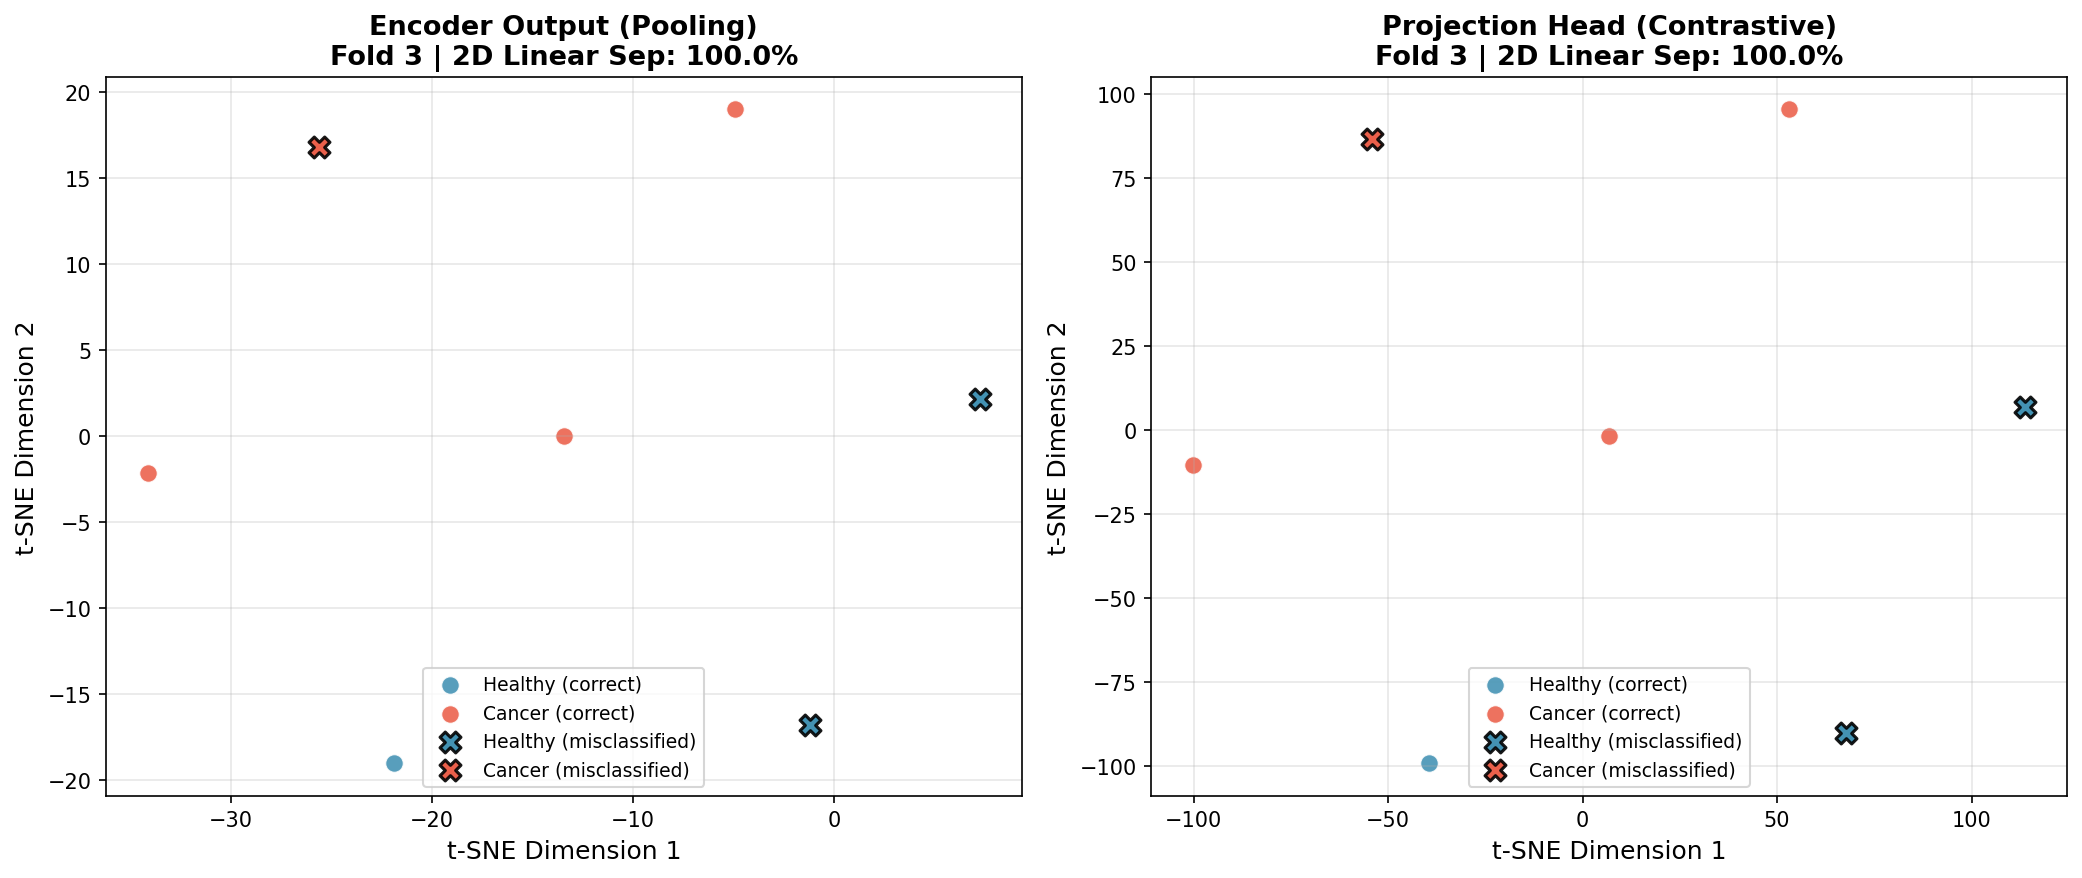
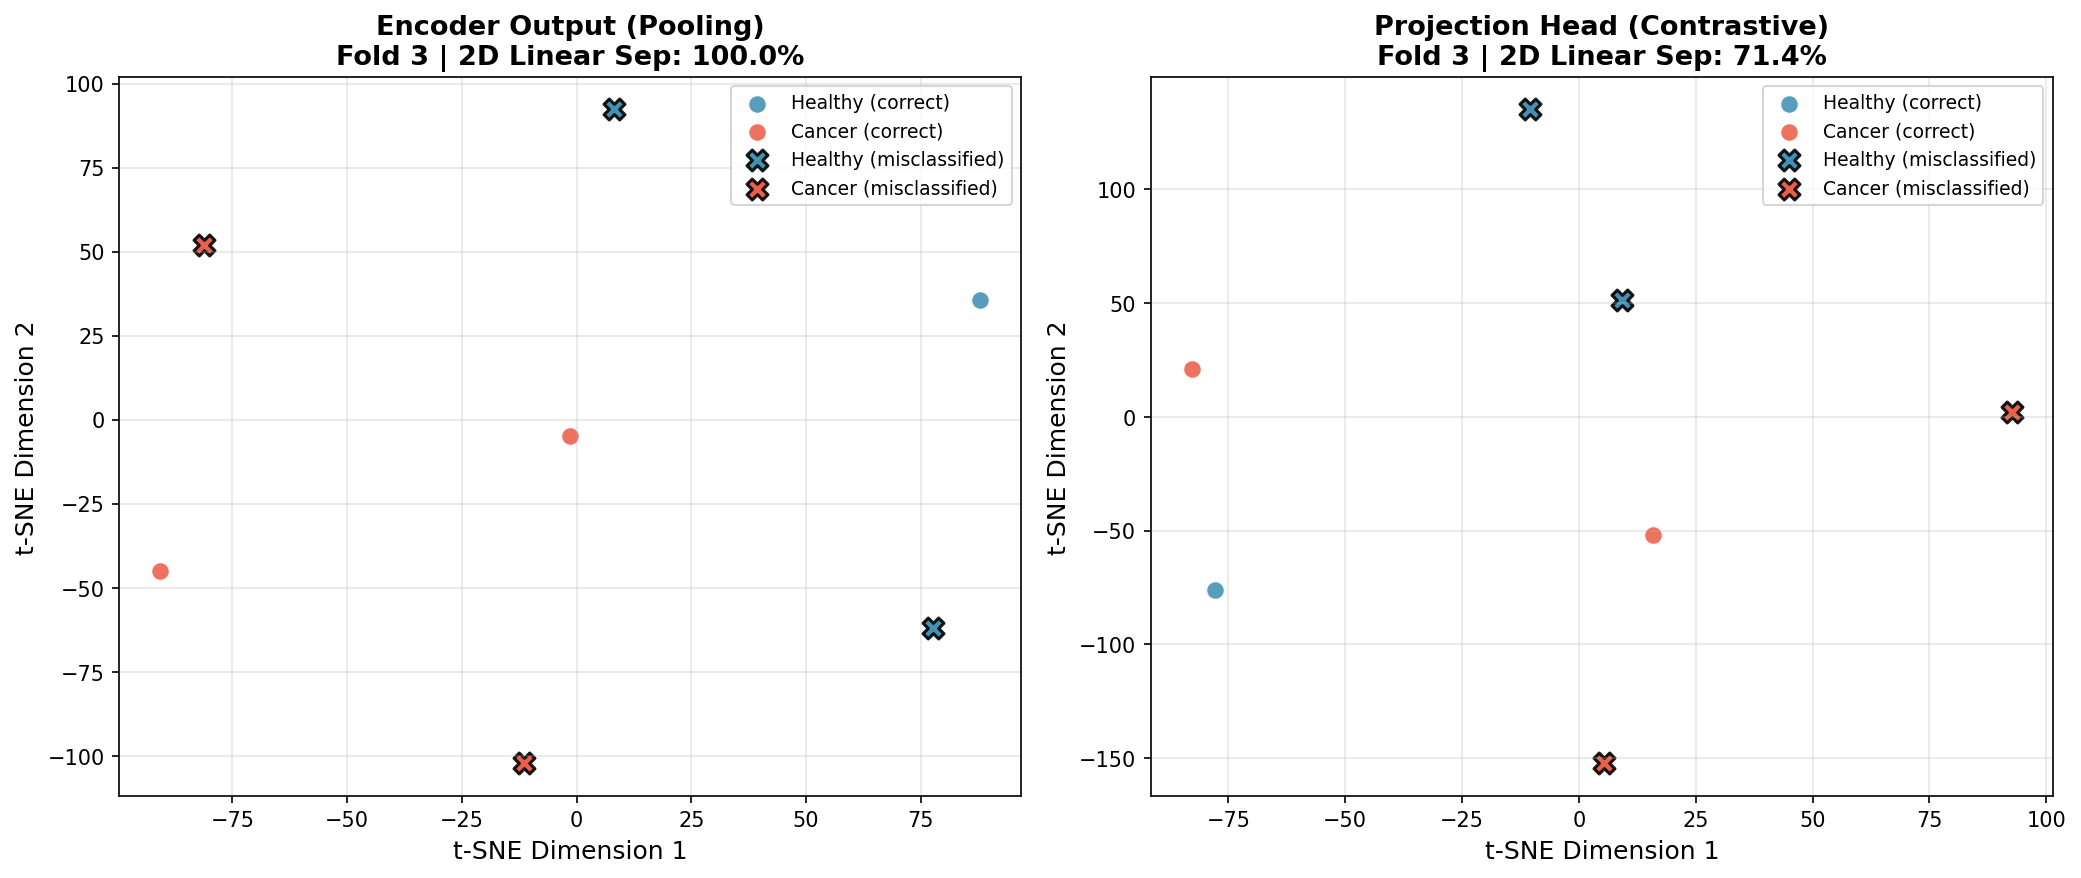
feat: conter loss function

diff --git a/transformer/training/center_loss.py b/transformer/training/center_loss.py
@@ -1,0 +1,105 @@
+import torch
+import torch.nn as nn
+
+
+class CenterLoss(nn.Module):
+    """
+    Center Loss for improving intra-class compactness.
+    
+    Learns a center (centroid) for each class and minimizes the L2 distance
+    between embeddings and their corresponding class centers.
+    
+    This directly attacks intra-class variance, which is the key to improving
+    Silhouette Score. Unlike SupConLoss, it doesn't require large batches or pairs.
+    
+    Reference: Wen et al., "A Discriminative Feature Learning Approach for Deep Face Recognition"
+    
+    L_center = (1/2) * sum_i ||f_i - c_{y_i}||^2
+    
+    Where:
+        - f_i is the feature embedding of sample i
+        - c_{y_i} is the learned center for class y_i
+    """
+    
+    def __init__(self, num_classes: int, feat_dim: int, device: torch.device = None):
+        """
+        Args:
+            num_classes: Number of classes (2 for binary classification)
+            feat_dim: Dimension of the feature embeddings
+            device: Device to place the centers on
+        """
+        super().__init__()
+        self.num_classes = num_classes
+        self.feat_dim = feat_dim
+        
+        # Learnable centers (one per class)
+        # Initialize with zeros - will be updated during training
+        self.centers = nn.Parameter(torch.zeros(num_classes, feat_dim))
+        nn.init.xavier_uniform_(self.centers)
+        
+        if device is not None:
+            self.centers = nn.Parameter(self.centers.to(device))
+    
+    def forward(self, features: torch.Tensor, labels: torch.Tensor, center_separation_weight: float = 0.0) -> torch.Tensor:
+        """
+        Compute the center loss.
+        
+        Args:
+            features: L2-normalized embeddings (batch_size, feat_dim)
+            labels: Ground truth labels (batch_size,) with values in [0, num_classes-1]
+            center_separation_weight: Weight for the center separation penalty (default 0.0)
+            
+        Returns:
+            Scalar loss value
+        """
+        batch_size = features.size(0)
+        
+        if batch_size == 0:
+            return torch.tensor(0.0, device=features.device, requires_grad=True)
+        
+        # Get centers for each sample's class
+        # labels: (batch_size,) -> centers_batch: (batch_size, feat_dim)
+        labels_long = labels.long()
+        centers_batch = self.centers[labels_long]
+        
+        # Compute squared L2 distance to centers
+        # ||f_i - c_{y_i}||^2
+        diff = features - centers_batch
+        dist_sq = (diff ** 2).sum(dim=1)
+        
+        # Mean over batch
+        loss = dist_sq.mean() / 2.0
+        
+        # Center separation loss: maximize distance between class centers
+        center_separation_loss = 0.0
+        if center_separation_weight > 0.0 and self.num_classes > 1:
+            # Compute pairwise distances between all class centers
+            centers = self.centers
+            # (num_classes, num_classes)
+            dist_matrix = torch.cdist(centers, centers, p=2)
+            # Mask diagonal (distance to self = 0)
+            mask = ~torch.eye(self.num_classes, dtype=torch.bool, device=centers.device)
+            # Minimize negative mean distance (maximize separation)
+            center_separation_loss = -dist_matrix[mask].mean()
+            loss = loss + center_separation_weight * center_separation_loss
+        return loss
+    
+    def update_centers(self, features: torch.Tensor, labels: torch.Tensor, alpha: float = 0.5):
+        """
+        Update centers using exponential moving average (optional alternative to gradient-based update).
+        
+        This can be used instead of or in addition to gradient updates for more stable centers.
+        
+        Args:
+            features: Feature embeddings (batch_size, feat_dim)
+            labels: Ground truth labels (batch_size,)
+            alpha: Learning rate for center update (0.0 = no update, 1.0 = full update)
+        """
+        with torch.no_grad():
+            for c in range(self.num_classes):
+                mask = (labels.long() == c)
+                if mask.sum() > 0:
+                    class_features = features[mask]
+                    class_center = class_features.mean(dim=0)
+                    # EMA update
+                    self.centers.data[c] = (1 - alpha) * self.centers.data[c] + alpha * class_center

diff --git a/transformer/training/train_engine.py b/transformer/training/train_engine.py
@@ -3,7 +3,7 @@ import torch
 import torch.nn as nn
 from copy import deepcopy
 
-from transformer.training.sup_con_loss import SupConLoss
+from transformer.training.center_loss import CenterLoss
 from transformer.training.class_balanced_sampler import ClassBalancedSampler
 
 from transformer.training.train_utils import TrainUtils
@@ -85,12 +85,25 @@ class TrainEngine(TrainUtils):
         
         # Loss functions
         bce_criterion = nn.BCEWithLogitsLoss(pos_weight=pos_weight)
-        supcon_criterion = SupConLoss(temperature=self.supcon_temperature)
+       
+        # Center Loss - learns class centers to reduce intra-class variance
+        # feat_dim is d_model // 2 (projection head output dimension)
+        feat_dim = self.d_model // 2
+        center_criterion = CenterLoss(num_classes=2, feat_dim=feat_dim, device=self.device)
+        # Peso da penalização de afastamento dos centros
+        center_separation_weight = getattr(self, 'center_separation_weight', 0.5)  # valor padrão 0.1
         
+        # Optimizer for model parameters
         optimizer = torch.optim.AdamW(
             self.model.parameters(), 
             lr=self.lr, 
             weight_decay=self.weight_decay
+        )
+        
+        # Separate optimizer for center parameters (higher learning rate)
+        center_optimizer = torch.optim.SGD(
+            center_criterion.parameters(),
+            lr=self.lr * 10  # Centers need higher LR to keep up with features
         )
         
         # Cosine annealing scheduler (works better for small datasets)
@@ -117,6 +130,7 @@ class TrainEngine(TrainUtils):
             
             for X_batch, y_batch in train_loader:
                 optimizer.zero_grad()
+                center_optimizer.zero_grad()
                 
                 # Forward pass with embeddings for contrastive loss
                 logits, encoder_repr, projected = self.model(
@@ -126,20 +140,21 @@ class TrainEngine(TrainUtils):
                 # BCE loss
                 bce_loss = bce_criterion(logits, y_batch)
                 
-                # SupCon loss (need flat labels)
+                # Center loss (need flat labels)
                 labels_flat = y_batch.squeeze(-1)
-                supcon_loss = supcon_criterion(projected, labels_flat)
+                center_loss = center_criterion(projected, labels_flat, center_separation_weight=center_separation_weight)
                 
                 # Combined loss
-                loss = (1 - self.supcon_weight) * bce_loss + self.supcon_weight * supcon_loss
+                loss = (1 - self.supcon_weight) * bce_loss + self.supcon_weight * center_loss
                 
                 train_bce_losses.append(bce_loss.item())
-                train_supcon_losses.append(supcon_loss.item())
+                train_supcon_losses.append(center_loss.item())
                 
                 # Backward pass
                 loss.backward()
                 torch.nn.utils.clip_grad_norm_(self.model.parameters(), max_norm=1.0)
                 optimizer.step()
+                center_optimizer.step()  # Update centers
                 scheduler.step()
             
             # Validation phase

diff --git a/transformer/training/__init__.py b/transformer/training/__init__.py
@@ -2,17 +2,20 @@
 Training Components
 
 Contains training utilities for the SpectralTransformer:
-- TrainEngine: Mixin class providing training functionality with SupCon support
-- SupConLoss: Supervised Contrastive Loss implementation
+- TrainEngine: Mixin class providing training functionality with Center Loss support
+- CenterLoss: Center Loss for intra-class compactness
+- SupConLoss: Supervised Contrastive Loss implementation (legacy)
 - ClassBalancedSampler: Sampler for balanced batches in contrastive learning
 """
 
 from transformer.training.train_engine import TrainEngine
+from transformer.training.center_loss import CenterLoss
 from transformer.training.sup_con_loss import SupConLoss
 from transformer.training.class_balanced_sampler import ClassBalancedSampler
 from transformer.training.train_utils import TrainUtils
 __all__ = [
     'TrainEngine',
+    'CenterLoss',
     'SupConLoss',
     'ClassBalancedSampler',
     'TrainUtils'

diff --git a/ploting/embedding_visualization.py b/ploting/embedding_visualization.py
@@ -268,6 +268,20 @@ def main(random_state: int = 1):
             suffix="_test"
         )
         
+        # Plot validation embeddings
+        print("\nExtracting validation embeddings...")
+        encoder_val, projected_val = model.get_embeddings(X_val)
+        predictions_val = model.predict(X_val)
+        
+        plot_embeddings_with_misclassified(
+            encoder_val,
+            projected_val,
+            y_val,
+            predictions_val,
+            fold_num=fold_num,
+            suffix="_val"
+        )
+        
         # Also plot train embeddings for comparison
         print("\nExtracting train embeddings...")
         encoder_train, projected_train = model.get_embeddings(X_train_fold)

diff --git a/transformer/model.py b/transformer/model.py
@@ -43,7 +43,7 @@ class SpectralTransformerModel(TrainEngine, BaseClassifierModel):
                  n_epochs: int = 200,
                  batch_size: int = 8,
                  patience: int = 50,
-                 supcon_weight: float = 0.5,
+                 supcon_weight: float = 0.5, 
                  supcon_temperature: float = 0.07,
                  random_state: int = 1,
                  verbose: bool = True,

diff --git a/README.md b/README.md
@@ -159,7 +159,7 @@ Aggregates patch representations into a single vector
 - **Binary Cross-Entropy (BCE)**: Standard classification loss
 - **Supervised Contrastive Loss (SupCon)**: Pulls same-class embeddings together and pushes different-class embeddings apart in the projection space
 
-$$\mathcal{L} = \mathcal{L}_{BCE} + \lambda \cdot \mathcal{L}_{SupCon}$$
+$$\mathcal{L} = (1 - \lambda) \cdot \mathcal{L}_{BCE} + \lambda \cdot \mathcal{L}_{SupCon}$$
 
 ![Model Architecture](./ploting/img/architecture.jpeg)
 
